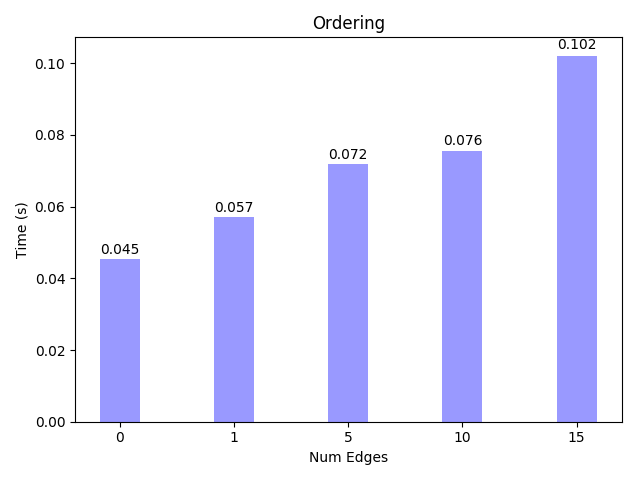
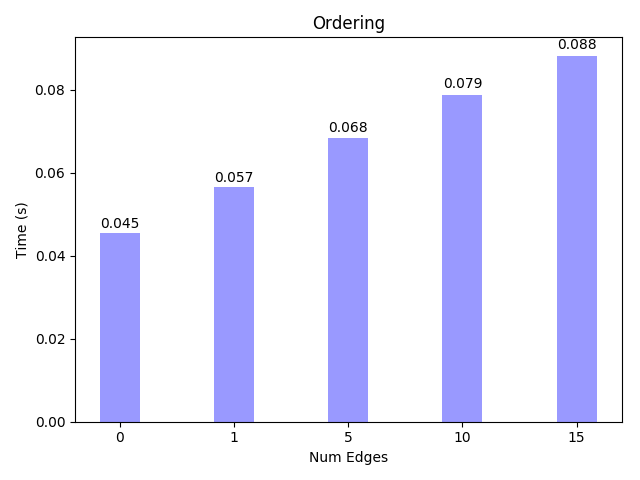
added for loop to compute average of times

diff --git a/csparse_solver/grapher/Solver.c b/csparse_solver/grapher/Solver.c
@@ -49,8 +49,6 @@ void update_xdata(json_object *jobj, double value, const char *name) {
     json_object_array_add(xdata, jvalue);
 }
 
-
-
 int main (int argc, char *argv[]) {
 
     int ret_code;
@@ -59,6 +57,7 @@ int main (int argc, char *argv[]) {
     int *I, *J, n;
     double *val, *b;
     int order=0;
+    int iter = atoi(argv[3]);
 
     // Read in input mtx
     if ((f = fopen(argv[1], "r")) == NULL)
@@ -124,25 +123,31 @@ int main (int argc, char *argv[]) {
 
     if (!A || !b) return (1);      /* check inputs */
 
-    clock_t symb_time, num_time, solve_time, total_time;
-    clock_t start = clock();
-    clock_t start2 = start;
-    S = cs_schol (A, order) ;       /* ordering and symbolic analysis */
-    symb_time = clock()-start;
-    start = clock();
-    N = cs_chol (A, S);        /* numeric Cholesky factorization */
-    num_time = clock()-start;
-    x = cs_malloc (n, sizeof (double));
-    ok = (S && N && x);
-    if (ok) {
+    clock_t symb_time=0, num_time=0, solve_time=0, total_time=0, start, start2;
+    for (int i = 0; i < iter; i++) {
         start = clock();
-        cs_ipvec (n, S->Pinv, b, x) ;   /* x = P*b */
-        cs_lsolve (N->L, x) ;       /* x = L\x */
-        cs_ltsolve (N->L, x) ;      /* x = L'\x */
-        cs_pvec (n, S->Pinv, x, b) ;    /* b = P'*x */
-        solve_time = clock()-start;
+        start2 = start;
+        S = cs_schol (A, order) ;       /* ordering and symbolic analysis */
+        symb_time += clock()-start;
+        start = clock();
+        N = cs_chol (A, S);        /* numeric Cholesky factorization */
+        num_time += clock()-start;
+        x = cs_malloc (n, sizeof (double));
+        ok = (S && N && x);
+        if (ok) {
+            start = clock();
+            cs_ipvec (n, S->Pinv, b, x) ;   /* x = P*b */
+            cs_lsolve (N->L, x) ;       /* x = L\x */
+            cs_ltsolve (N->L, x) ;      /* x = L'\x */
+            cs_pvec (n, S->Pinv, x, b) ;    /* b = P'*x */
+            solve_time += clock()-start;
+        }
+        total_time += clock()-start2;
     }
-    total_time = clock()-start2;
+    symb_time /= iter;
+    num_time /= iter;
+    solve_time /= iter;
+    total_time /= iter;
 
     // below is hard coded*
     json_object *jobj = json_object_from_file(argv[2]);

diff --git a/csparse_solver/grapher/bargraph.py b/csparse_solver/grapher/bargraph.py
@@ -95,5 +95,6 @@ if __name__ == "__main__":
 		for d in data:
 			x_ticks = get_x_ticks(data[d]["files"])
 			if d == "nnz":
-				create_bi_bar(data[d]["x_data"], data[d]["x_data"], data[d]['x_label'], data[d]['y_label'], d, x_ticks, "nnz(A)", "nnz(R)", current_dir+d+".png")
-			create_bar(data[d]["y_data"], data[d]['x_label'], data[d]['y_label'], d, x_ticks, current_dir+d+".png")
+				create_bi_bar(data[d]["x_data"], data[d]["y_data"], data[d]['x_label'], data[d]['y_label'], d, x_ticks, "nnz(A)", "nnz(R)", current_dir+d+".png")
+			else:
+				create_bar(data[d]["y_data"], data[d]['x_label'], data[d]['y_label'], d, x_ticks, current_dir+d+".png")
